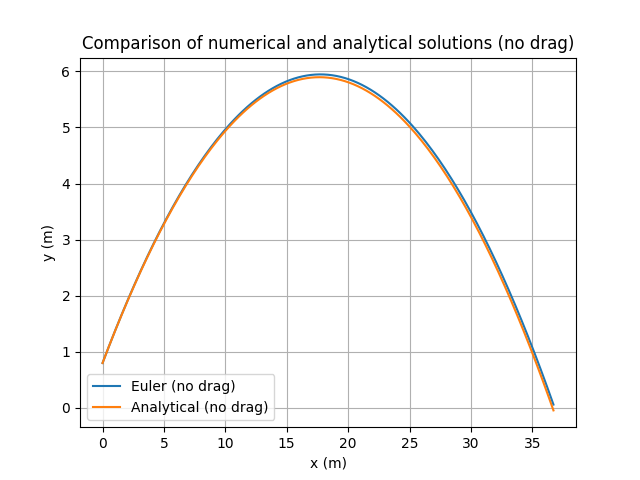
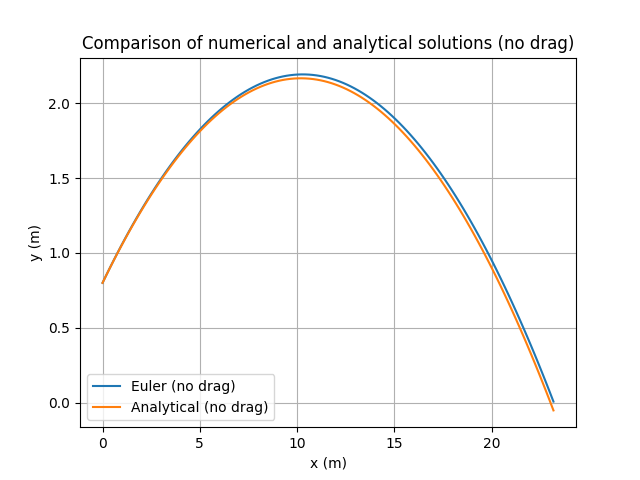
hello

diff --git a/term2Coursework1.py b/term2Coursework1.py
@@ -18,7 +18,7 @@ Hball = 0.8 # initial height of the ball
 L = 11.9 # distance from the baseline to the net
 Hnet = 0.9 # net height
 
-alpha = np.radians(30) # angle in radians - should be changed based on initial conditions
+alpha = math.radians(15) # angle in radians - should be changed based on initial conditions
 # alpha = np.degrees(45)
 V = 20 # initial velocity - should be changed based on intial conditions
 
@@ -359,11 +359,9 @@ kM = 0.5 * R * Cl * A / m
 print("kM", kM)
  
 # int conditions
-v0= 30 #m/s
-alpha= 5* np.pi /180
 x0, y0= 0.0, 0.8
-vx0= v0 * np.cos(alpha)
-vy0= v0 * np.sin(alpha)
+vx0= V * np.cos(alpha)
+vy0= V * np.sin(alpha)
  
 #time
 dt= 0.001
@@ -416,10 +414,23 @@ y = y[:n+1]
  
 
 plt.clf()
-plt.plot(x, y)
-plt.axhline(0.9, linestyle='--')   # net height
-plt.axvline(11.9, linestyle='--')  # net position
-plt.xlabel("x (m)")
-plt.ylabel("y (m)")
-plt.savefig("bweiufgkr.png")
+plt.figure()
+plt.plot(xNum, yNum, label="Euler (no drag)")
+plt.plot(xListQuestion2, yListQuestion2, label = "Euler (with drag)")
+plt.xlabel('x (m)')
+plt.ylabel('y (m)')
+plt.title('Projectile Motion')
+plt.legend()
+plt.grid(True)
+
+####
+plt.plot(x, y, label = "Magnus Effect")
+# plt.axhline(0.9, linestyle='--', label = "Net Height")   # net height
+# plt.axvline(11.9, linestyle='--', label = "Net Position")  # net position
+point1 = [11.9,11.9]
+point2 = [0.0,0.9]
+plt.plot(point1,point2,linestyle = "-", linewidth = 2, label = "Net", color = '#000000')
+plt.legend()
+plt.grid(True)
+plt.savefig("question4wquestion2.png")
  
